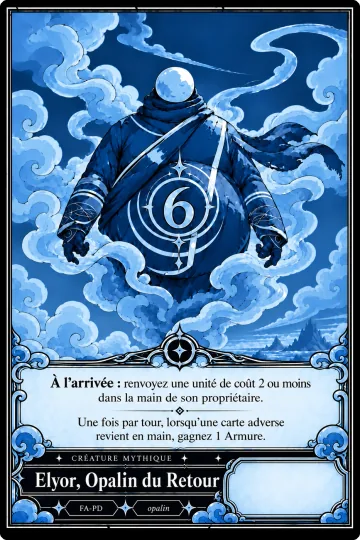
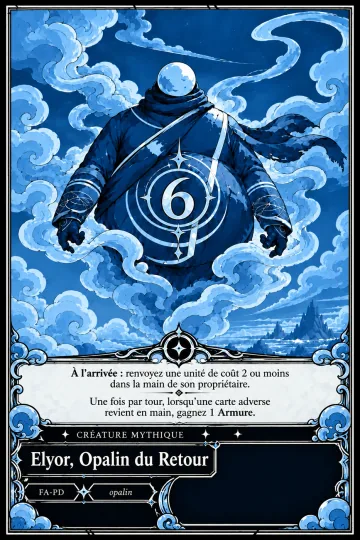
Styled et Full-Art floutées hors mode Dev ; sigle « S-MM » des Styled ; Opalin repeinte
- Les illustrations alternatives pas encore sorties sont floutées pour un
  joueur (face de carte, tuile, contenu du booster) et nettes en mode
  Dev (Admin, mode Dev allumé, ou développement local hors vue joueur).
- Le sigle de collection d'une Styled remplace la rareté par S (« S-MM »),
  celui d'une Full-Art par FA.
- Full-Art d'Elyor, Opalin du Retour repeinte (zone des stats) : renommée
  et convertie.

Claude-Session: https://claude.ai/code/session_01JkZDYmARpCwYyx8AaheZsi

diff --git a/features/cadre-preview/NouveauCadreCard.tsx b/features/cadre-preview/NouveauCadreCard.tsx
@@ -6,6 +6,8 @@ import { cardSetMark } from "@/game/boosters";
 import type { CardFinish } from "@/game/cosmetics/finishes";
 import { isFullArt, type CardArtwork } from "@/game/cosmetics/artworks";
 import { cardArtworkUrl } from "@/features/decks/cardArtUrl";
+import { useDevMode } from "@/features/admin/useDevMode";
+import { HIDDEN_ARTWORK_FILTER, isArtworkHidden } from "@/features/collection/hiddenArtwork";
 import { useLayoutEffect, useRef } from "react";
 import { useDebordPleinCadre } from "@/features/match/useDebordPleinCadre";
 import { useImageOk } from "@/features/match/useImageOk";
@@ -94,6 +96,8 @@ export function NouveauCadreFace({
   // Le texte d'une Full-Art est dans l'image : le réécrire le doublerait.
   const textesPeints = isFullArt(oeuvre);
   const illustrationOk = useImageOk(illustration);
+  // Styled et Full-Art pas encore sorties : floutées hors mode Dev.
+  const illustrationCachee = isArtworkHidden(oeuvre, useDevMode());
   const hasPower = def.attack !== undefined;
   const hasResistance = def.health !== undefined;
   const abyssale = isAbyssalVariant(def);
@@ -113,8 +117,8 @@ export function NouveauCadreFace({
 
   const cadre = frameName(def, legendaire);
   const calage = CALAGES[cadre];
-  // Rareté et extension d'origine, « L-BD » (16/10/2026) : le sigle de collection.
-  const sigle = cardSetMark(def.id);
+  // Rareté et extension d'origine, « L-BD » (16/10/2026) : le sigle de collection ; « S-MM » pour une Styled.
+  const sigle = cardSetMark(def.id, oeuvre);
 
   return (
     <div
@@ -131,7 +135,11 @@ export function NouveauCadreFace({
       }}
     >
       {/* Couche 1 : l'illustration, plein cadre, coupée à l'arrondi du liseré. */}
-      <div className="absolute overflow-hidden bg-slate-900" style={{ inset: "var(--illus-inset)", borderRadius: "var(--illus-radius)" }}>
+      <div
+        className="absolute overflow-hidden bg-slate-900"
+        style={{ inset: "var(--illus-inset)", borderRadius: "var(--illus-radius)", filter: illustrationCachee ? HIDDEN_ARTWORK_FILTER : undefined }}
+        data-illustration-cachee={illustrationCachee || undefined}
+      >
         {illustrationOk ? (
           // eslint-disable-next-line @next/next/no-img-element
           <img src={illustration} alt="" className={`h-full w-full object-cover ${FILTRE_FINITION[finition]}`} draggable={false} />

diff --git a/features/market/BoosterContentsDialog.tsx b/features/market/BoosterContentsDialog.tsx
@@ -7,6 +7,8 @@ import { boosterArtworkEntries } from "@/game/boosters/boosterArtworks";
 import { CARD_ARTWORK_LABELS } from "@/game/cosmetics/artworks";
 import { CARD_ARTWORK_ODDS, type CardEdition } from "@/game/cosmetics/editions";
 import { cardArtworkThumbUrl } from "@/features/decks/cardArtUrl";
+import { useDevMode } from "@/features/admin/useDevMode";
+import { HIDDEN_ARTWORK_FILTER, isArtworkHidden } from "@/features/collection/hiddenArtwork";
 import { oneOf } from "@/lib/persistCodecs";
 import { usePersistedState } from "@/lib/persistedState";
 import type { BoosterInventoryEntry } from "@/features/boosters/actions";
@@ -50,6 +52,8 @@ function safeName(cardId: string): string {
  * (« Cartes de l'extension »).
  */
 export function BoosterContentsDialog({ booster, owned, ownedArtworks, onClose }: BoosterContentsDialogProps) {
+  // Styled et Full-Art pas encore sorties : floutées hors mode Dev.
+  const devMode = useDevMode();
   // Mémorisés sur l'appareil : d'un booster à l'autre, on cherche la même chose.
   const [rarity, setRarity] = usePersistedState<CardRarity | null>("contenu-booster:rarete", null, {
     decode: (raw) => oneOf<CardRarity | null>([null, ...RARITY_ORDER], raw),
@@ -186,7 +190,14 @@ export function BoosterContentsDialog({ booster, owned, ownedArtworks, onClose }
                   }}
                   title={`${entry.name} — ${CARD_ARTWORK_LABELS[entry.artwork]} : 1 tirage de cette carte sur ${Math.round(1 / CARD_ARTWORK_ODDS[entry.artwork])}`}
                 >
-                  <span className={styles.art} style={{ backgroundImage: `url("${cardArtworkThumbUrl(entry.cardId, entry.artwork)}")` }} aria-hidden />
+                  <span
+                    className={styles.art}
+                    style={{
+                      backgroundImage: `url("${cardArtworkThumbUrl(entry.cardId, entry.artwork)}")`,
+                      filter: isArtworkHidden(entry.artwork, devMode) ? HIDDEN_ARTWORK_FILTER : undefined,
+                    }}
+                    aria-hidden
+                  />
                   <span className={styles.name}>{entry.name}</span>
                   <span className={styles.rarity}>{CARD_ARTWORK_LABELS[entry.artwork]}</span>
                 </button>

diff --git a/game/boosters/extensions.ts b/game/boosters/extensions.ts
@@ -1,6 +1,7 @@
 import { ARCHETYPE_LABELS, type ArchetypeId } from "@/game/cards/archetypes";
 import { rarityForCardId } from "@/game/boosters/cardRarity";
 import type { CardRarity } from "@/game/boosters/types";
+import type { CardArtwork } from "@/game/cosmetics/artworks";
 import {
   boostersContaining,
   BOOSTER_BIENVENUE,
@@ -290,16 +291,28 @@ export const RARITY_INITIALS: Record<CardRarity, string> = {
  * l'EXTENSION d'où elle provient — « L-BD » pour une Légendaire du Booster
  * Défaut, « PC-MM » pour une Peu commune de La mutation mondiale.
  *
+ * Une Styled imprime « S » à la place de la rareté (« S-MM »), une Styled
+ * Full-Art « FA » (« FA-MM », peint dans l'image).
+ *
  * Une carte que plusieurs sachets donnent (passerelles, rééditions) porte le
  * sigle du PREMIER dans l'ordre du rayon — son extension d'origine. Le Mini
  * Booster de Bienvenue ne compte pas : ce n'est pas une extension. Une carte
  * hors de tout sachet n'imprime que sa rareté. `null` pour ce qui n'a pas de
  * rareté (jetons).
  */
-export function cardSetMark(cardId: string): string | null {
+export function cardSetMark(cardId: string, artwork: CardArtwork = "classique"): string | null {
   const rarity = rarityForCardId(cardId);
   if (!rarity) return null;
+  // Une illustration alternative remplace la rareté par son sigle : « S-MM »
+  // pour une Styled de La mutation mondiale, « FA-MM » pour sa Full-Art.
+  const prefix = ARTWORK_INITIALS[artwork] ?? RARITY_INITIALS[rarity];
   const sachets = boostersContaining(cardId);
   const origine = EXTENSIONS.find((entry) => sachets.includes(entry.boosterId));
-  return origine ? `${RARITY_INITIALS[rarity]}-${origine.code}` : RARITY_INITIALS[rarity];
+  return origine ? `${prefix}-${origine.code}` : prefix;
 }
+
+/** Sigle d'une illustration alternative, à la place de la rareté : S (Styled), FA (Styled Full-Art). */
+export const ARTWORK_INITIALS: Partial<Record<CardArtwork, string>> = {
+  styled: "S",
+  "styled-fa": "FA",
+};

diff --git a/features/match/CardTile.tsx b/features/match/CardTile.tsx
@@ -39,6 +39,8 @@ import { rarityForCardId } from "@/game/boosters";
 import type { CardFinish } from "@/game/cosmetics/finishes";
 import { boardTileArtwork, type CardArtwork } from "@/game/cosmetics/artworks";
 import { cardArtworkUrl } from "@/features/decks/cardArtUrl";
+import { useDevMode } from "@/features/admin/useDevMode";
+import { HIDDEN_ARTWORK_FILTER, isArtworkHidden } from "@/features/collection/hiddenArtwork";
 
 interface CardTileProps {
   instance: CardInstance;
@@ -700,6 +702,8 @@ function CardTileView({
   // telle quelle ; la tuile de plateau écarte la Full-Art (texte peint).
   const shownArtwork = isBoardTile ? boardTileArtwork(def.id, artwork) : (artwork ?? "classique");
   const illustrationUrl = getIllustrationUrl(def, instance, shownArtwork);
+  // Styled et Full-Art pas encore sorties : floutées hors mode Dev (`hiddenArtwork`).
+  const illustrationStyle = isArtworkHidden(def.token ? undefined : shownArtwork, useDevMode()) ? { filter: HIDDEN_ARTWORK_FILTER } : undefined;
   // Le débord n'existe que pour les Abyssales (`public/assets/cards/README.md`) :
   // inutile d'aller le chercher pour toutes les autres cartes.
   const debordUrl = isAbyssal && shownArtwork === "classique" ? getDebordUrl(instance.cardId) : null;
@@ -808,6 +812,7 @@ function CardTileView({
                   alt=""
                   onError={() => setIllustrationFailed(illustrationUrl)}
                   className="h-full w-full object-cover"
+                  style={illustrationStyle}
                 />
               )}
               {/* Couche 1.5 : le débord Abyssal. Pour une Abyssale, l'illustration n'est que le DÉCOR ;
@@ -1016,6 +1021,7 @@ function CardTileView({
                 alt=""
                 onError={() => setIllustrationFailed(illustrationUrl)}
                 className="h-full w-full object-cover"
+                style={illustrationStyle}
               />
             )}
           </div>

diff --git a/features/admin/useDevMode.ts b/features/admin/useDevMode.ts
@@ -1,0 +1,34 @@
+"use client";
+
+import { useEffect, useState } from "react";
+import { fetchProgression, type ProgressionSummary } from "@/features/progression/actions";
+import { onProgressionRead, readProgression, rememberedProgression } from "@/features/progression/progressionSync";
+
+/**
+ * Mode Dev côté NAVIGATEUR : Admin dont le mode Dev est allumé (Options), ou
+ * développement local hors vue joueur — la même règle que les outils
+ * d'édition de la Collection (`app/collection/page.tsx`).
+ */
+function devModeOf(summary: ProgressionSummary | null): boolean {
+  if (summary?.vueJoueur) return false;
+  return process.env.NODE_ENV === "development" || (summary?.isAdmin ?? false);
+}
+
+/**
+ * Le mode Dev est-il actif ? Faux tant qu'on ne sait pas : ce qu'il dévoile
+ * (illustrations pas encore sorties) reste caché par défaut. Il suit la
+ * lecture partagée du bandeau (`readProgression`, dédoublonnée) : cent
+ * cartes à l'écran ne font pas cent requêtes, et la bascule des Options
+ * s'applique partout dès la relecture.
+ */
+export function useDevMode(): boolean {
+  const [devMode, setDevMode] = useState(() => devModeOf(rememberedProgression()));
+  useEffect(() => {
+    const unsubscribe = onProgressionRead((summary) => setDevMode(devModeOf(summary)));
+    readProgression(fetchProgression)
+      .then((summary) => setDevMode(devModeOf(summary)))
+      .catch(() => undefined);
+    return unsubscribe;
+  }, []);
+  return devMode;
+}

diff --git a/tests/game/boosterExtensions.test.ts b/tests/game/boosterExtensions.test.ts
@@ -142,6 +142,14 @@ describe("sigle de collection (bas gauche de la carte)", () => {
     expect(cardSetMark("devoreur-de-moelle")).toBe("R-ESM");
   });
 
+  it("une illustration alternative remplace la rareté : « S-MM » pour une Styled, « FA-MM » pour une Full-Art", () => {
+    const rarete = cardSetMark("la-revenante")!;
+    const extension = rarete.slice(rarete.indexOf("-"));
+    expect(cardSetMark("la-revenante", "classique")).toBe(rarete);
+    expect(cardSetMark("la-revenante", "styled")).toBe(`S${extension}`);
+    expect(cardSetMark("la-revenante", "styled-fa")).toBe(`FA${extension}`);
+  });
+
   it("une carte de plusieurs sachets porte celui de son extension d'origine (le premier du rayon)", () => {
     // Pulcinella Gonflé est une passerelle B1 / B3 : il vient du Booster Défaut.
     expect(cardSetMark("pulcinella-gonfle")).toMatch(/-BD$/);

diff --git a/features/progression/progressionSync.ts b/features/progression/progressionSync.ts
@@ -40,6 +40,16 @@ export function rememberedProgression(): ProgressionSummary | null {
 
 export function rememberProgression(summary: ProgressionSummary): void {
   lastProgression = summary.isSignedIn ? summary : null;
+  readListeners.forEach((listener) => listener(lastProgression));
+}
+
+/** Abonnés à CHAQUE lecture réussie (`useDevMode`) : ils suivent le bandeau sans relire eux-mêmes. */
+const readListeners = new Set<(summary: ProgressionSummary | null) => void>();
+
+/** Abonnement aux lectures ; renvoie la fonction de désabonnement. */
+export function onProgressionRead(listener: (summary: ProgressionSummary | null) => void): () => void {
+  readListeners.add(listener);
+  return () => readListeners.delete(listener);
 }
 
 /** À la déconnexion : le prochain bandeau ne doit pas afficher, même un instant, le compte précédent. */

diff --git a/tests/features/hiddenArtwork.test.ts b/tests/features/hiddenArtwork.test.ts
@@ -1,0 +1,16 @@
+import { describe, expect, it } from "vitest";
+import { isArtworkHidden } from "@/features/collection/hiddenArtwork";
+
+describe("isArtworkHidden", () => {
+  it("floute Styled et Full-Art hors mode Dev, jamais la Classique", () => {
+    expect(isArtworkHidden("styled", false)).toBe(true);
+    expect(isArtworkHidden("styled-fa", false)).toBe(true);
+    expect(isArtworkHidden("classique", false)).toBe(false);
+    expect(isArtworkHidden(undefined, false)).toBe(false);
+  });
+
+  it("montre tout en mode Dev", () => {
+    expect(isArtworkHidden("styled", true)).toBe(false);
+    expect(isArtworkHidden("styled-fa", true)).toBe(false);
+  });
+});

diff --git a/features/collection/hiddenArtwork.ts b/features/collection/hiddenArtwork.ts
@@ -1,0 +1,12 @@
+import type { CardArtwork } from "@/game/cosmetics/artworks";
+
+/**
+ * Illustrations PAS ENCORE SORTIES (Styled, Styled Full-Art) : floutées pour
+ * un joueur, visibles en mode Dev seulement (`useDevMode`). Le flou est posé
+ * sur l'image seule — Puissance et Résistance d'une Full-Art restent nettes.
+ */
+export const HIDDEN_ARTWORK_FILTER = "blur(18px) saturate(0.8)";
+
+export function isArtworkHidden(artwork: CardArtwork | undefined, devMode: boolean): boolean {
+  return !devMode && artwork !== undefined && artwork !== "classique";
+}
